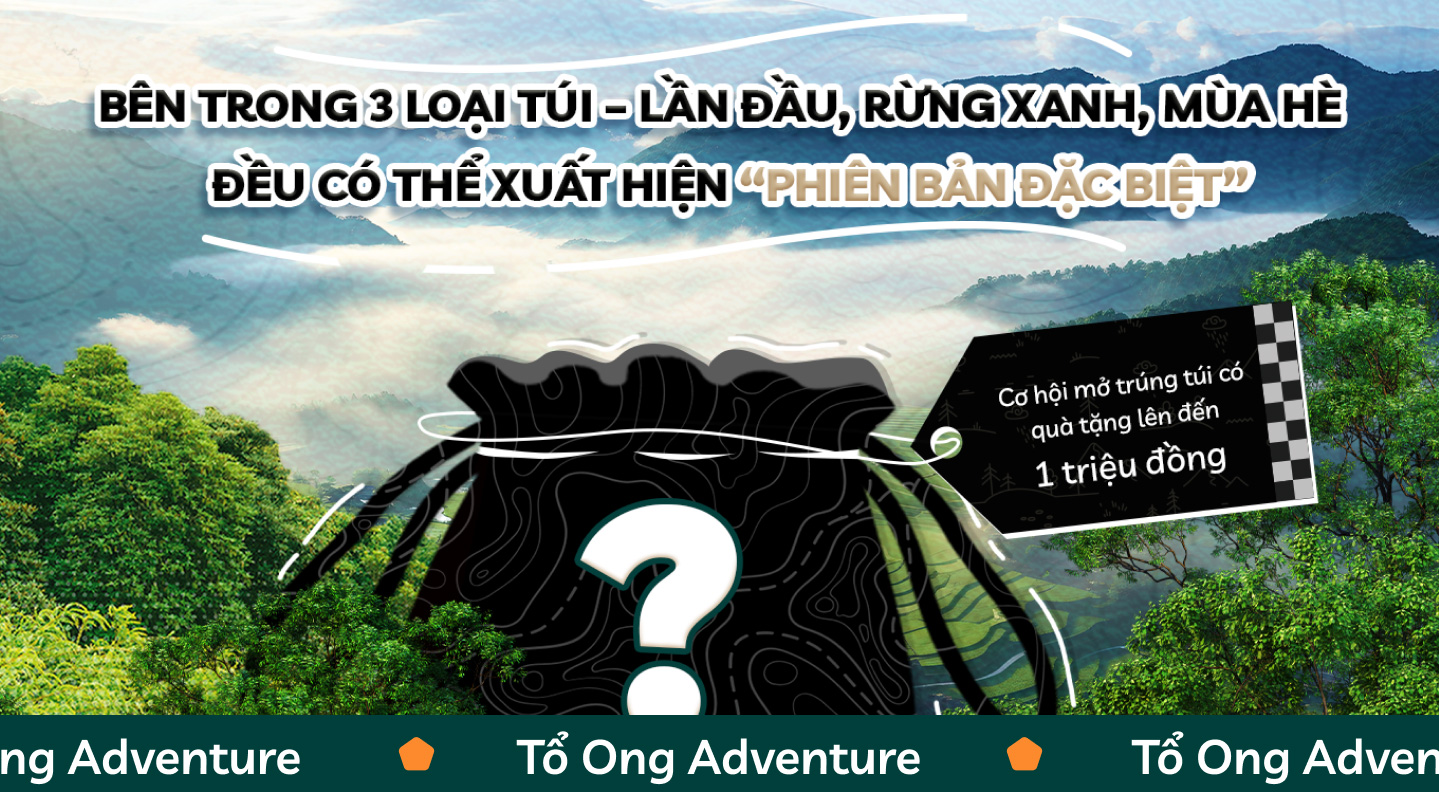
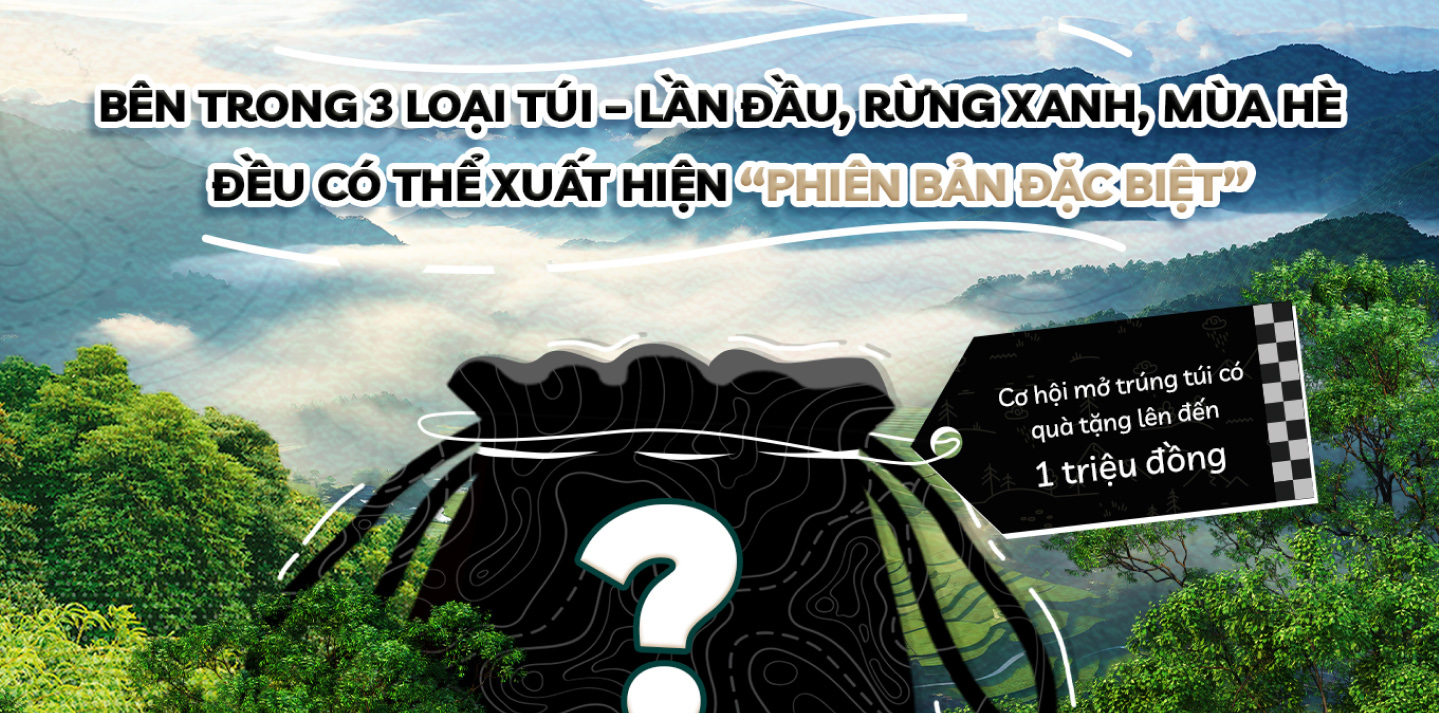
marquee

diff --git a/src/toong/assets/scss/fe-styles.css b/src/toong/assets/scss/fe-styles.css
@@ -1,3 +1,4 @@
+@charset "UTF-8";
 @import url("https://fonts.googleapis.com/css2?family=Livvic:ital,wght@0,100;0,200;0,300;0,400;0,500;0,600;0,700;0,900;1,100;1,200;1,300;1,400;1,500;1,600;1,700;1,900&family=Roboto:ital,wght@0,100..900;1,100..900&display=swap");
 @font-face {
   font-family: "Tharon";
@@ -611,4 +612,22 @@ section {
 }
 .animate-fadeInDown {
   animation: fadeInDown 0.45s cubic-bezier(0.4, 0, 0.2, 1);
+}
+
+@keyframes marquee {
+  0% {
+    transform: translateX(0%);
+  }
+  100% {
+    transform: translateX(-50%);
+  }
+}
+.marquee {
+  display: inline-flex;
+  min-width: 200%;
+  /* đủ dài để lặp */
+  animation: marquee 22s linear infinite;
+}
+.marquee:hover {
+  animation-play-state: paused;
 }/*# sourceMappingURL=fe-styles.css.map */

diff --git a/src/toong/assets/js/fe.js b/src/toong/assets/js/fe.js
@@ -116,3 +116,14 @@ document.addEventListener("DOMContentLoaded", function () {
   });
 });
 
+
+
+// Marquee auto-scroll functionality
+document.addEventListener('DOMContentLoaded', function () {
+  const marquee = document.getElementById('marquee-auto');
+  const content = marquee.querySelector('.marquee-content');
+  // Nhân bản nội dung cho tới khi tổng chiều rộng > 2 lần viewport
+  while (marquee.scrollWidth < window.innerWidth * 2) {
+    marquee.appendChild(content.cloneNode(true));
+  }
+});

diff --git a/src/toong/assets/scss/fe-styles.scss b/src/toong/assets/scss/fe-styles.scss
@@ -812,3 +812,24 @@ section {
 .animate-fadeInDown {
   animation: fadeInDown 0.45s cubic-bezier(.4, 0, .2, 1);
 }
+
+@keyframes marquee {
+  0% {
+    transform: translateX(0%);
+  }
+
+  100% {
+    transform: translateX(-50%);
+  }
+}
+
+.marquee {
+  display: inline-flex;
+  min-width: 200%;
+  /* đủ dài để lặp */
+  animation: marquee 22s linear infinite;
+
+  &:hover {
+    animation-play-state: paused;
+  }
+}

diff --git a/src/toong/index.php b/src/toong/index.php
@@ -381,6 +381,23 @@
         <img src="assets/images/banner-special-board.jpg" alt="Banner Special Board" class="w-full" />
     </section>
 
+    <div class="relative w-full bg-[#01433f] overflow-hidden py-2">
+        <div id="marquee-auto" class="marquee flex items-center whitespace-nowrap">
+            <div class="marquee-content flex items-center">
+                <span class="text-white font-bold text-3xl mx-4">Tổ Ong Adventure</span>
+                <svg class="mx-4 inline-block" width="32" height="32" viewBox="0 0 32 32" fill="#FC8A2D">
+                    <polygon points="16,6 27,13 23,26 9,26 5,13" />
+                </svg>
+                <span class="text-white font-bold text-3xl mx-4">Tổ Ong Adventure</span>
+                <svg class="mx-4 inline-block" width="32" height="32" viewBox="0 0 32 32" fill="#FC8A2D">
+                    <polygon points="16,6 27,13 23,26 9,26 5,13" />
+                </svg>
+            </div>
+        </div>
+    </div>
+
+
+
     <section class="section-bag-opening-process bg-[#fff]">
         <div class="wrapper bg-[#F1E5C3] rounded-[10px] md:rounded-[36px]">
             <div class="max-w-6xl mx-auto px-md-2">
